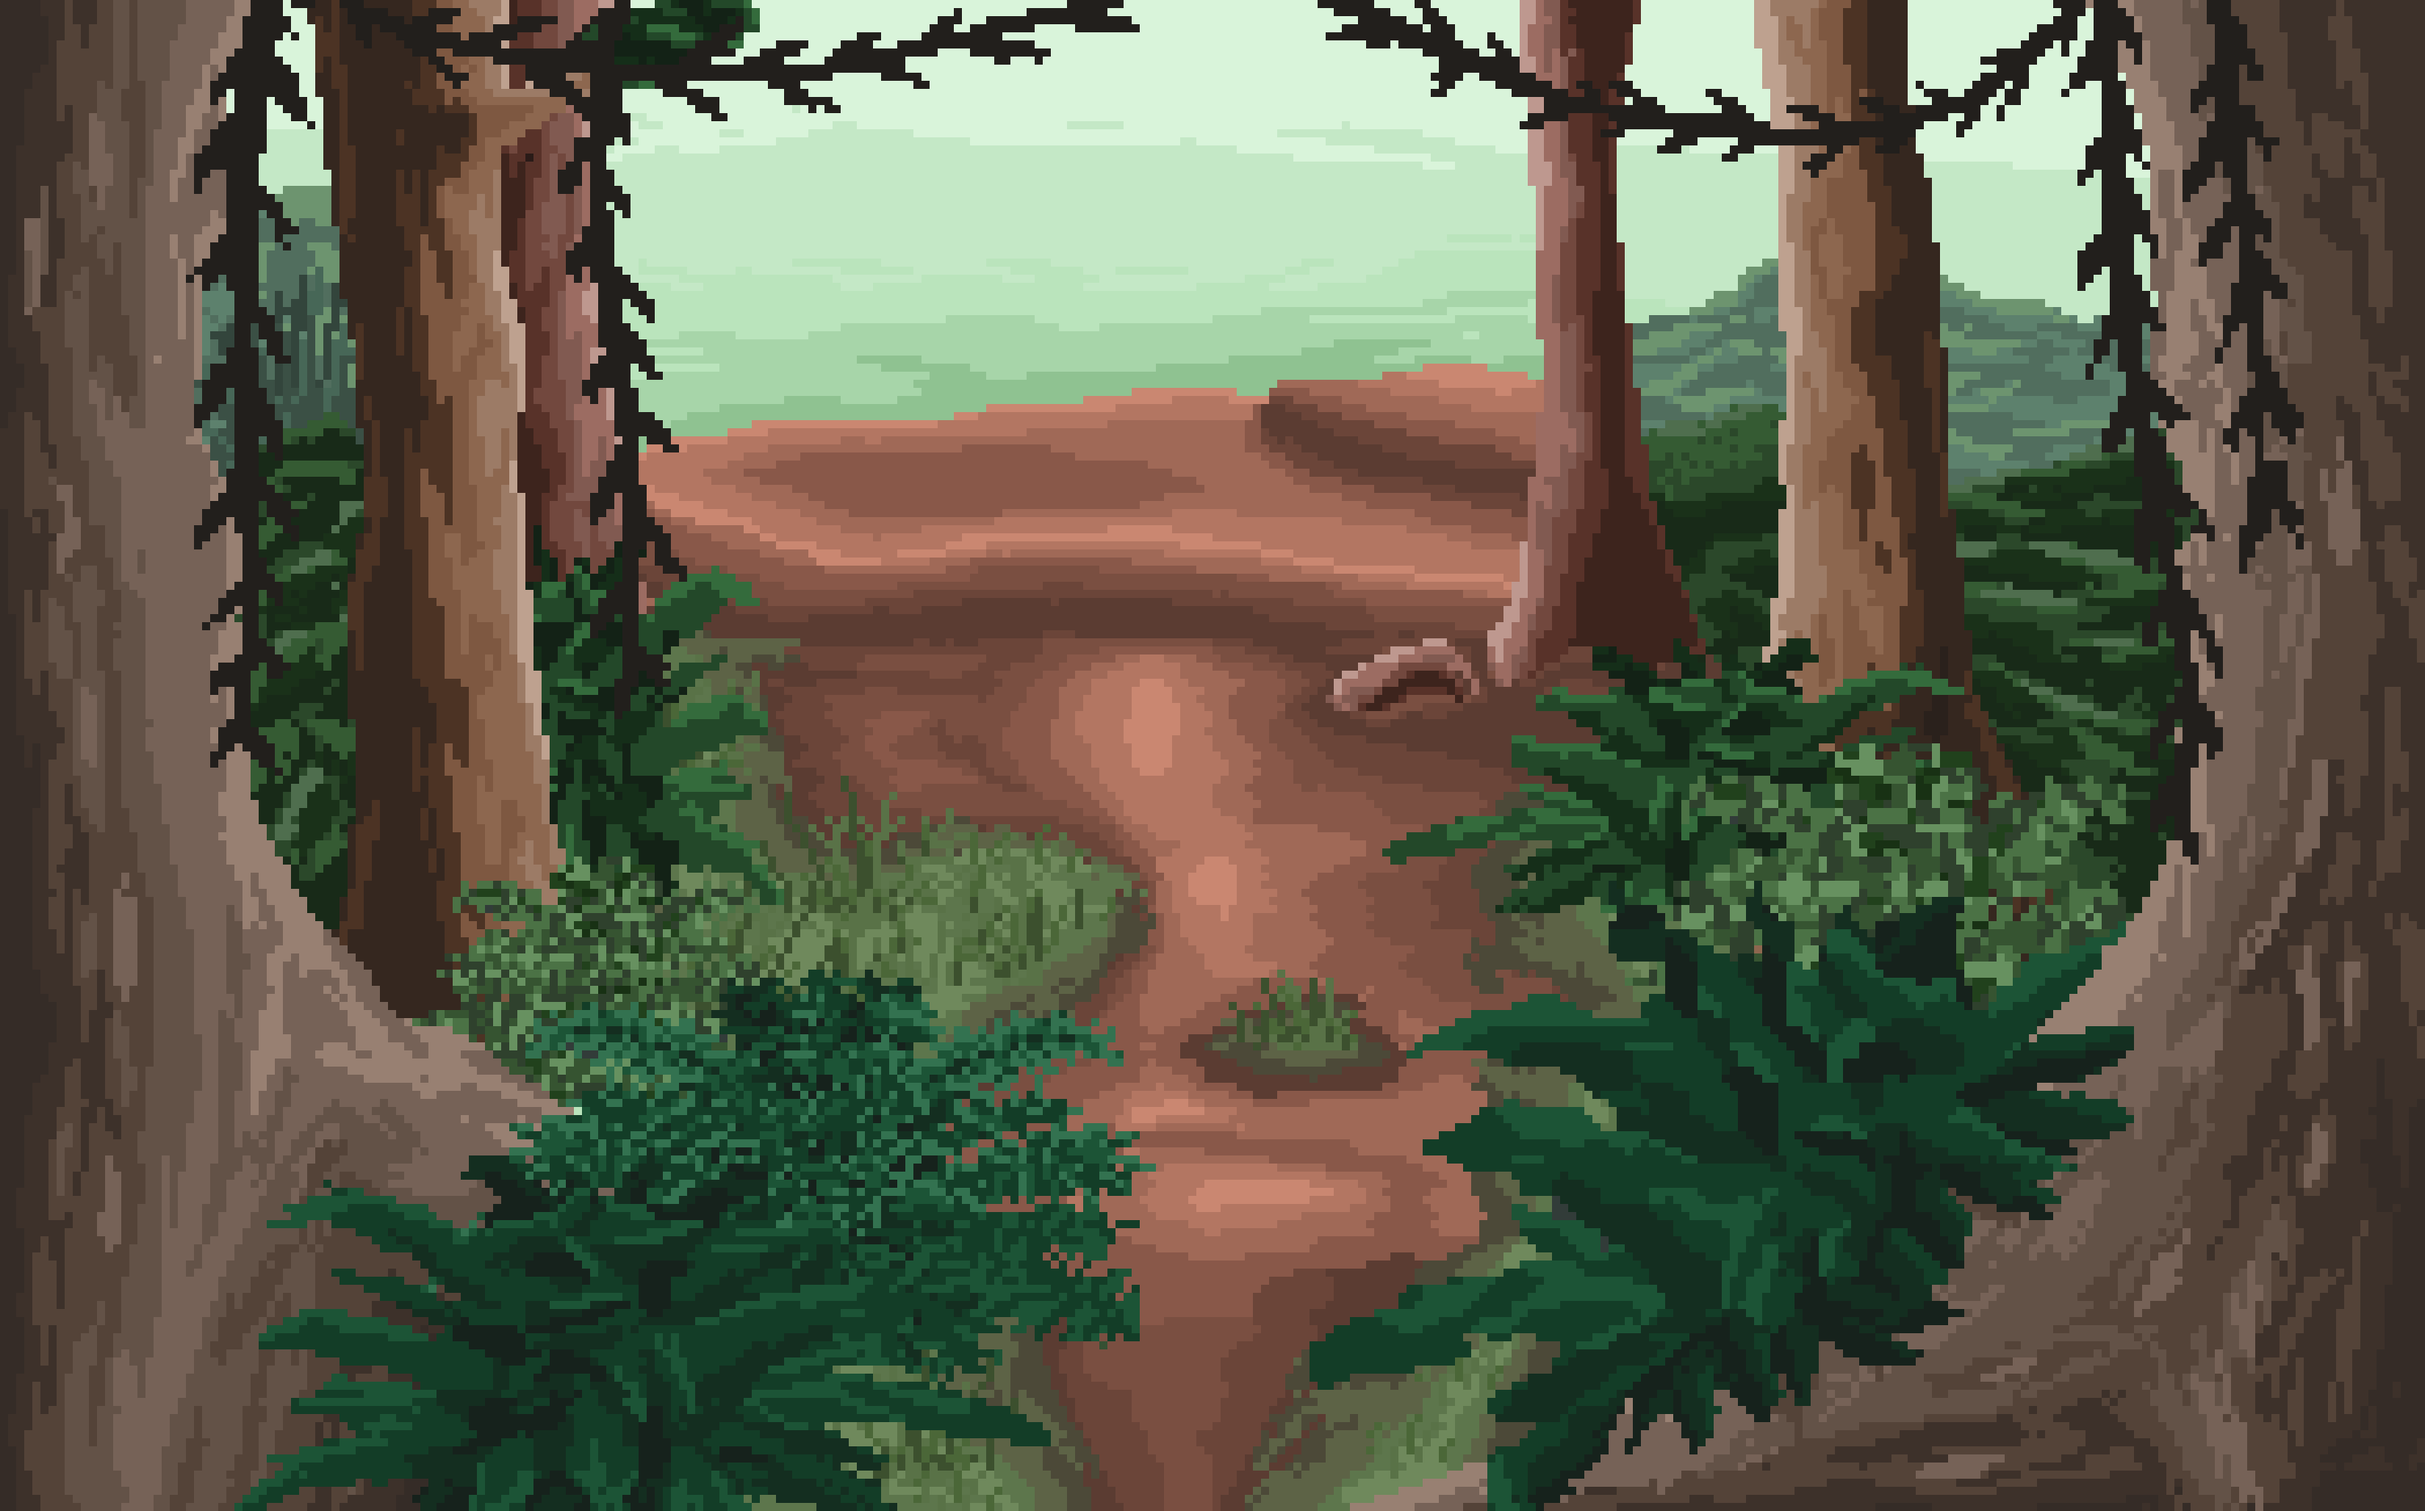
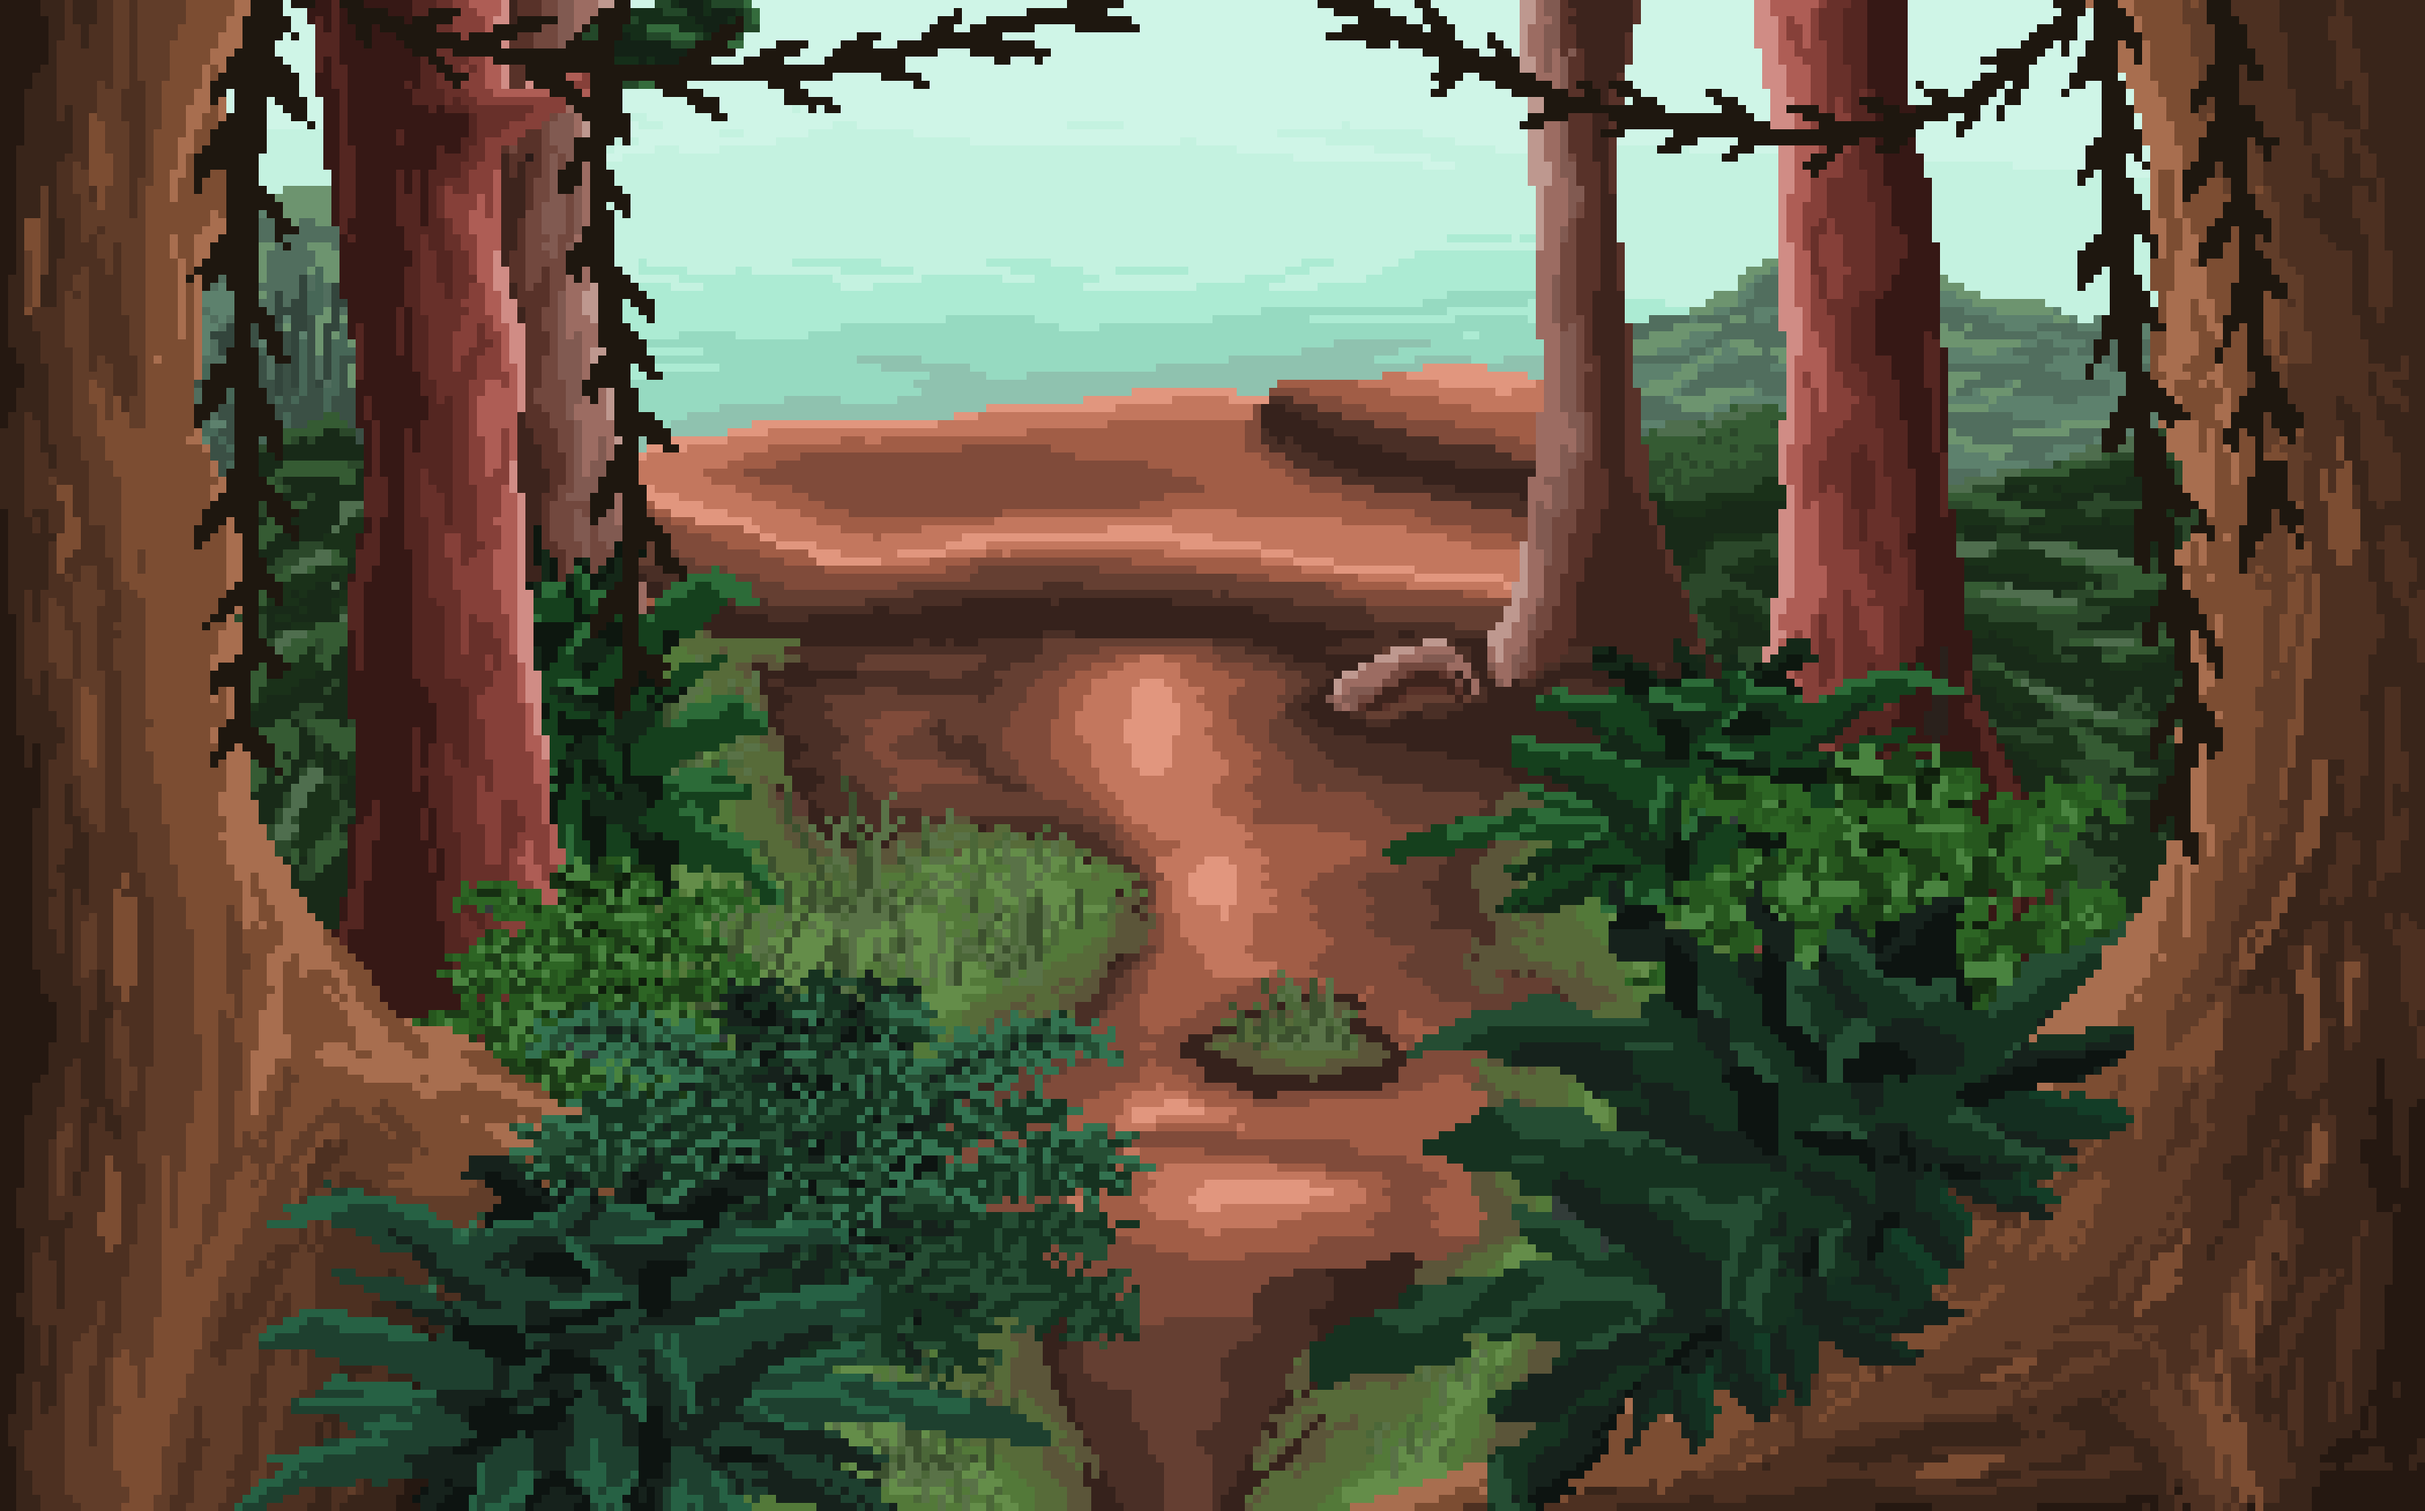
finished the damn thing -background, footer, responsive design

diff --git a/styles.css b/styles.css
@@ -35,8 +35,27 @@ a {
 }
 
 /* defaults end */
+
+html {
+    background-image: url(images/backgroundMobile.png);
+    background-size: cover;
+    background-position: center;
+    image-rendering: pixelated;
+}
+
+@keyframes fadeIn {
+    0% {
+        opacity: 0;
+    }
+
+    100% {
+        opacity: 1;
+    }
+}
+
 body {
     padding: 20px;
+    animation: fadeIn ease 3s 1 forwards;
 }
 
 header {
@@ -56,17 +75,11 @@ h1 {
     font-family: "findreplace", sans-serif;
     font-weight: 900;
     font-style: normal;
-    font-size: 30px;
+    font-size: 25px;
     color: white;
+    text-align: center;
     text-shadow: 0px 2px 0px rgb(117, 117, 117);
-}
-
-.name {
-    padding: 5px;
-}
-
-.classTitle {
-    padding: 5px;
+    padding: 10px;
 }
 
 nav ul li {
@@ -81,38 +94,61 @@ nav ul li {
 }
 
 nav ul li a {
+    background-image: url(images/buttonFill.png);
+    background-size: contain;
+    background-repeat: repeat;
     text-align: center;
-    text-shadow: 0px 2px rgb(166, 166, 166);
+    text-shadow: 0px 2px rgb(125, 125, 125);
     font-size: 20px;
     padding: 10px;
     background-color: rgb(106, 82, 68);
-    box-shadow: 0px 10px rgb(66, 52, 42);
-    border: solid 2px rgb(66, 52, 42);
+    box-shadow: 0px 10px #6d4e44;
     color: white;
     transition: color 150ms;
-    transition: border 150ms;
     transition: box-shadow 150ms;
     transition: background-color 150ms;
     transition: transform 150ms;
+
 }
 
 nav ul li a:hover {
     color: rgb(44, 44, 44);
-    border: solid 2px white;
     box-shadow: 0px 5px rgb(215, 215, 215);
     background-color: rgb(255, 255, 255);
     transform: scaleX(1.1) scaleY(1.1);
     transform: translateY(5px);
+    background-image: none;
 }
 
 .finalProject {
     margin-top: 20px;
 }
 
-h2 {
+body {
+    min-height: 100vh;
+    display: flex;
+    flex-direction: column;
+}
+
+footer {
+    margin: auto;
+    padding: 10px;
+}
+
+footer p,
+a {
     font-family: "findreplace", sans-serif;
-    font-weight: 700;
+    font-weight: 900;
     font-style: normal;
+    font-size: 25px;
+    color: white;
+    text-align: center;
+    text-shadow: 0px 2px 0px rgb(117, 117, 117);
+    transition: color 150ms;
+}
+
+footer p a:hover {
+    color: rgb(44, 44, 44);
 }
 
 @media only screen and (min-width: 700px) {
@@ -120,10 +156,62 @@ h2 {
         background-image: url(images/backgroundFull.png);
         background-size: cover;
         background-repeat: no-repeat;
+        background-position: center top
+    }
+
+    @keyframes animate {
+        0% {
+            background-image: url(images/backgroundAnimate1.png);
+        }
+
+        9% {
+            background-image: url(images/backgroundAnimate2.png);
+        }
+
+        18% {
+            background-image: url(images/backgroundAnimate3.png);
+        }
+
+        27% {
+            background-image: url(images/backgroundAnimate4.png);
+        }
+
+        36% {
+            background-image: url(images/backgroundAnimate5.png);
+        }
+
+        45% {
+            background-image: url(images/backgroundAnimate6.png);
+        }
+
+        63% {
+            background-image: url(images/backgroundAnimate7.png);
+        }
+
+        72% {
+            background-image: url(images/backgroundAnimate8.png);
+        }
+
+        81% {
+            background-image: url(images/backgroundAnimate9.png);
+        }
+
+        90% {
+            background-image: url(images/backgroundAnimate10.png);
+        }
+
+        100% {
+            background-image: url(images/backgroundAnimate11.png);
+        }
+    }
+
+    html:hover {
+        animation: animate 1100ms steps(10, end) infinite;
+        /* animation-delay: 10s; */
     }
 
     .headerFill {
-        background-image: url(images/headerFill.png);
+        background-image: url(images/headerFillWide.png);
     }
 
     nav {
@@ -138,6 +226,10 @@ h2 {
         flex: 1;
         flex-direction: column;
     }
+
+    h1 {
+        font-size: 30px;
+    }
 }
 
 @media only screen and (min-width: 1000px) {
@@ -149,7 +241,7 @@ h2 {
 
     .headerFill {
         display: flex;
-        justify-content: space-between;
+        justify-content: space-around;
         background-image: url(images/headerFillWide.png);
     }
 

diff --git a/index.html b/index.html
@@ -4,46 +4,65 @@
 <head>
     <meta charset="UTF-8">
     <link rel="stylesheet" href="https://use.typekit.net/muq2zoo.css">
+    <link rel="preload" href="images/backgroundAnimate1.png" as="image" />
+    <link rel="preload" href="images/backgroundAnimate2.png" as="image" />
+    <link rel="preload" href="images/backgroundAnimate3.png" as="image" />
+    <link rel="preload" href="images/backgroundAnimate4.png" as="image" />
+    <link rel="preload" href="images/backgroundAnimate5.png" as="image" />
+    <link rel="preload" href="images/backgroundAnimate6.png" as="image" />
+    <link rel="preload" href="images/backgroundAnimate7.png" as="image" />
+    <link rel="preload" href="images/backgroundAnimate8.png" as="image" />
+    <link rel="preload" href="images/backgroundAnimate9.png" as="image" />
+    <link rel="preload" href="images/backgroundAnimate10.png" as="image" />
+    <link rel="preload" href="images/backgroundAnimate11.png" as="image" />
     <link rel="stylesheet" href="styles.css">
     <meta name="viewport" content="width=device-width, initial-scale=1.0">
     <title>DES 157a Portal</title>
 </head>
 
 <body>
-    <header>
-        <div class="headerFill">
-            <h1 class="name">thalia gu</h1>
-            <h1 class="classTitle">des 157a interactive media ii</h1>
-        </div>
-    </header>
+    <main>
+        <header>
+            <div class="headerFill">
+                <h1>thalia gu</h1>
+                <h1 class="classTitle">des 157a interactive media ii</h1>
+            </div>
+        </header>
 
-    <nav>
-        <ul>
-            <li class="subtitle">Studios</li>
-            <li><a href="#">Learning Journal</a></li>
-            <li><a href="#">Mad Libs 2.0</a></li>
-            <li><a href="#">Every Picture</a></li>
-            <li><a href="#">Game On!</a></li>
-        </ul>
-
-        <ul>
-            <li class="subtitle">Experiments</li>
-            <li><a href="exp/exp1.html">Experiment 1</a></li>
-            <li><a href="#">Experiment 2</a></li>
+        <nav>
+            <ul>
+                <li class="subtitle">studios</li>
+                <li><a href="#">learning journal</a></li>
+                <li><a href="#">mad libs 2.0</a></li>
+                <li><a href="#">every picture</a></li>
+                <li><a href="#">game on!</a></li>
+            </ul>
 
             <ul>
-                <li class="finalProject listItem"><a href="#">Final Project</a></li>
-            </ul>
-        </ul>
+                <li class="subtitle">experiments</li>
+                <li><a href="exp/exp1.html">experiment 1</a></li>
+                <li><a href="#">experiment 2</a></li>
 
-        <ul>
-            <li class="subtitle">R&D</li>
-            <li><a href="#">Project Brief</a></li>
-            <li><a href="#">Design Comp</a></li>
-            <li><a href="#">Version 1</a></li>
-            <li><a href="#">Version 2</a></li>
-        </ul>
-    </nav>
+                <ul>
+                    <li class="finalProject listItem"><a href="#">final project</a></li>
+                </ul>
+            </ul>
+
+            <ul>
+                <li class="subtitle">r&d</li>
+                <li><a href="#">project brief</a></li>
+                <li><a href="#">design comp</a></li>
+                <li><a href="#">version 1</a></li>
+                <li><a href="#">version 2</a></li>
+            </ul>
+        </nav>
+    </main>
+    <footer>
+        <p>designed by thalia gu</p>
+        <p><a
+                href="mailto:&#097;&#108;&#103;&#117;&#064;&#117;&#099;&#100;&#097;&#118;&#105;&#115;&#046;&#101;&#100;&#117;">algu@ucdavis.edu</a>
+        </p>
+    </footer>
 </body>
 
 </html>
